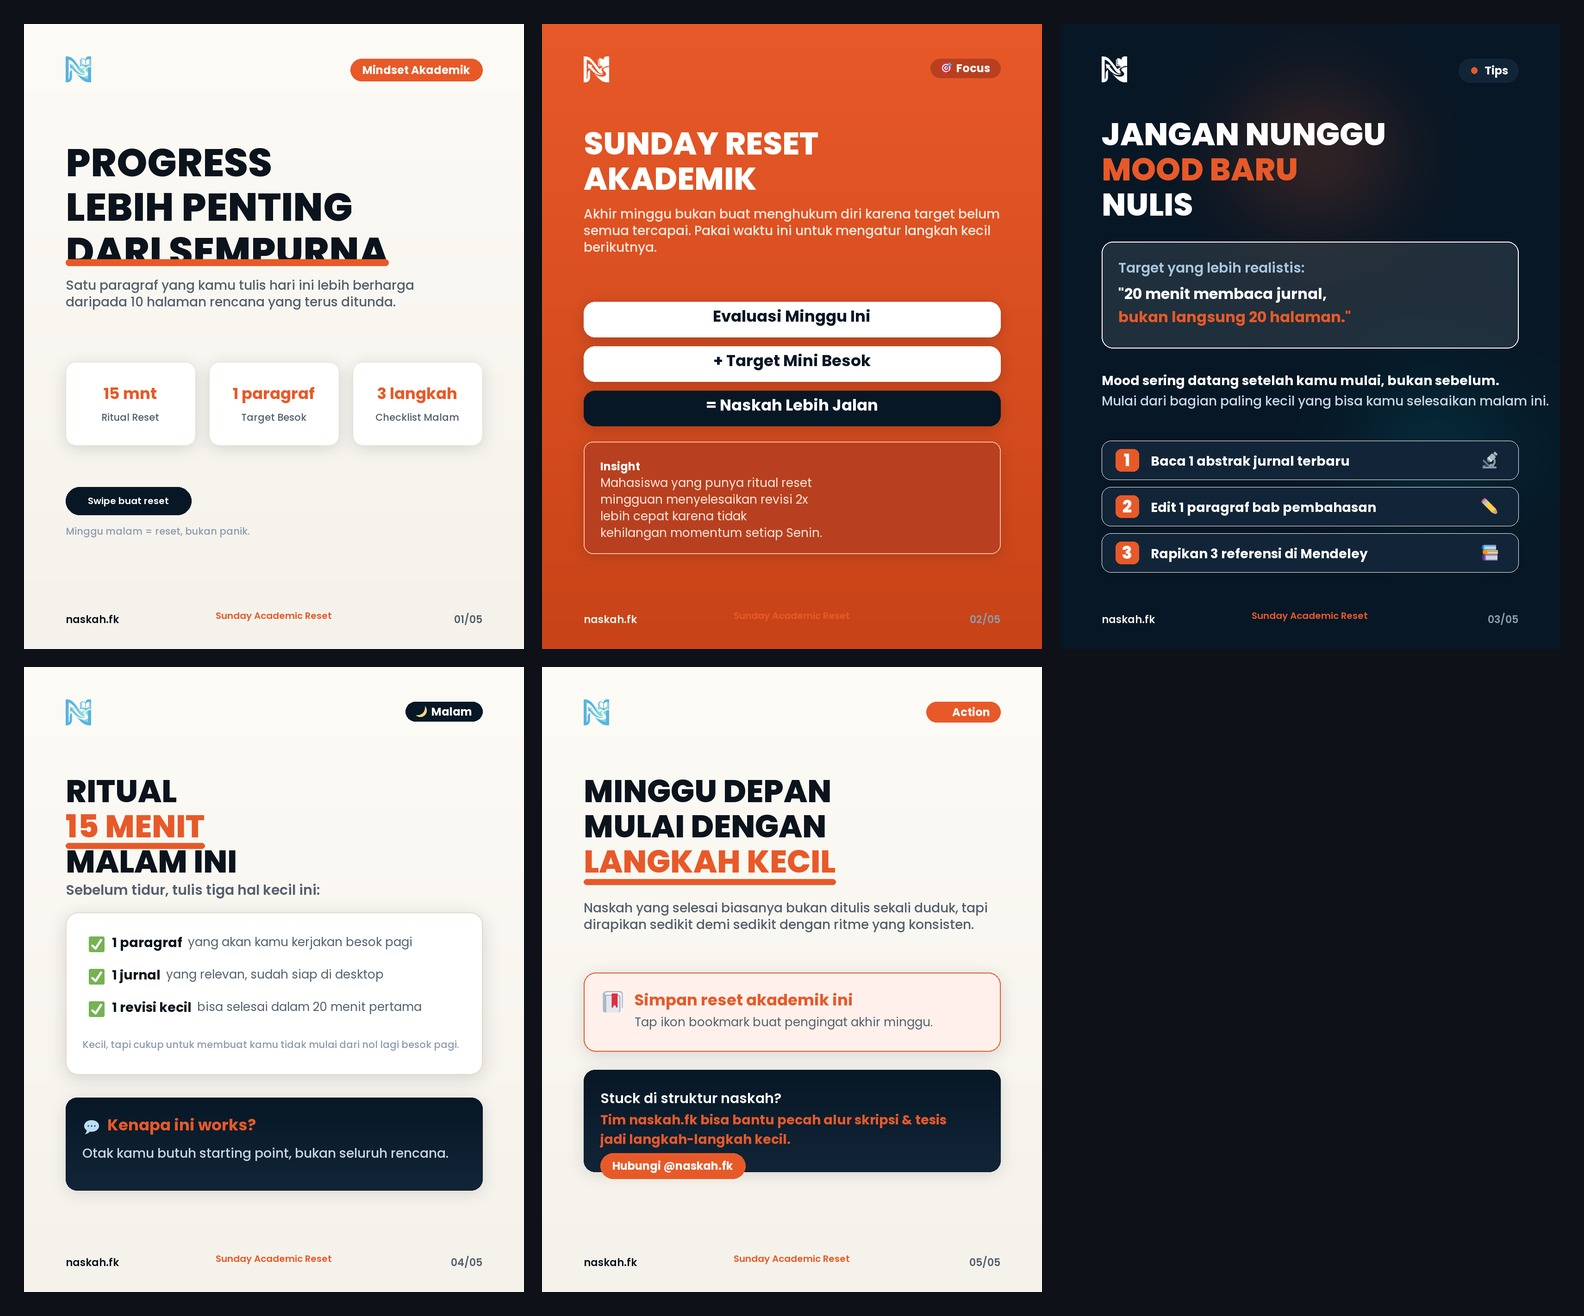
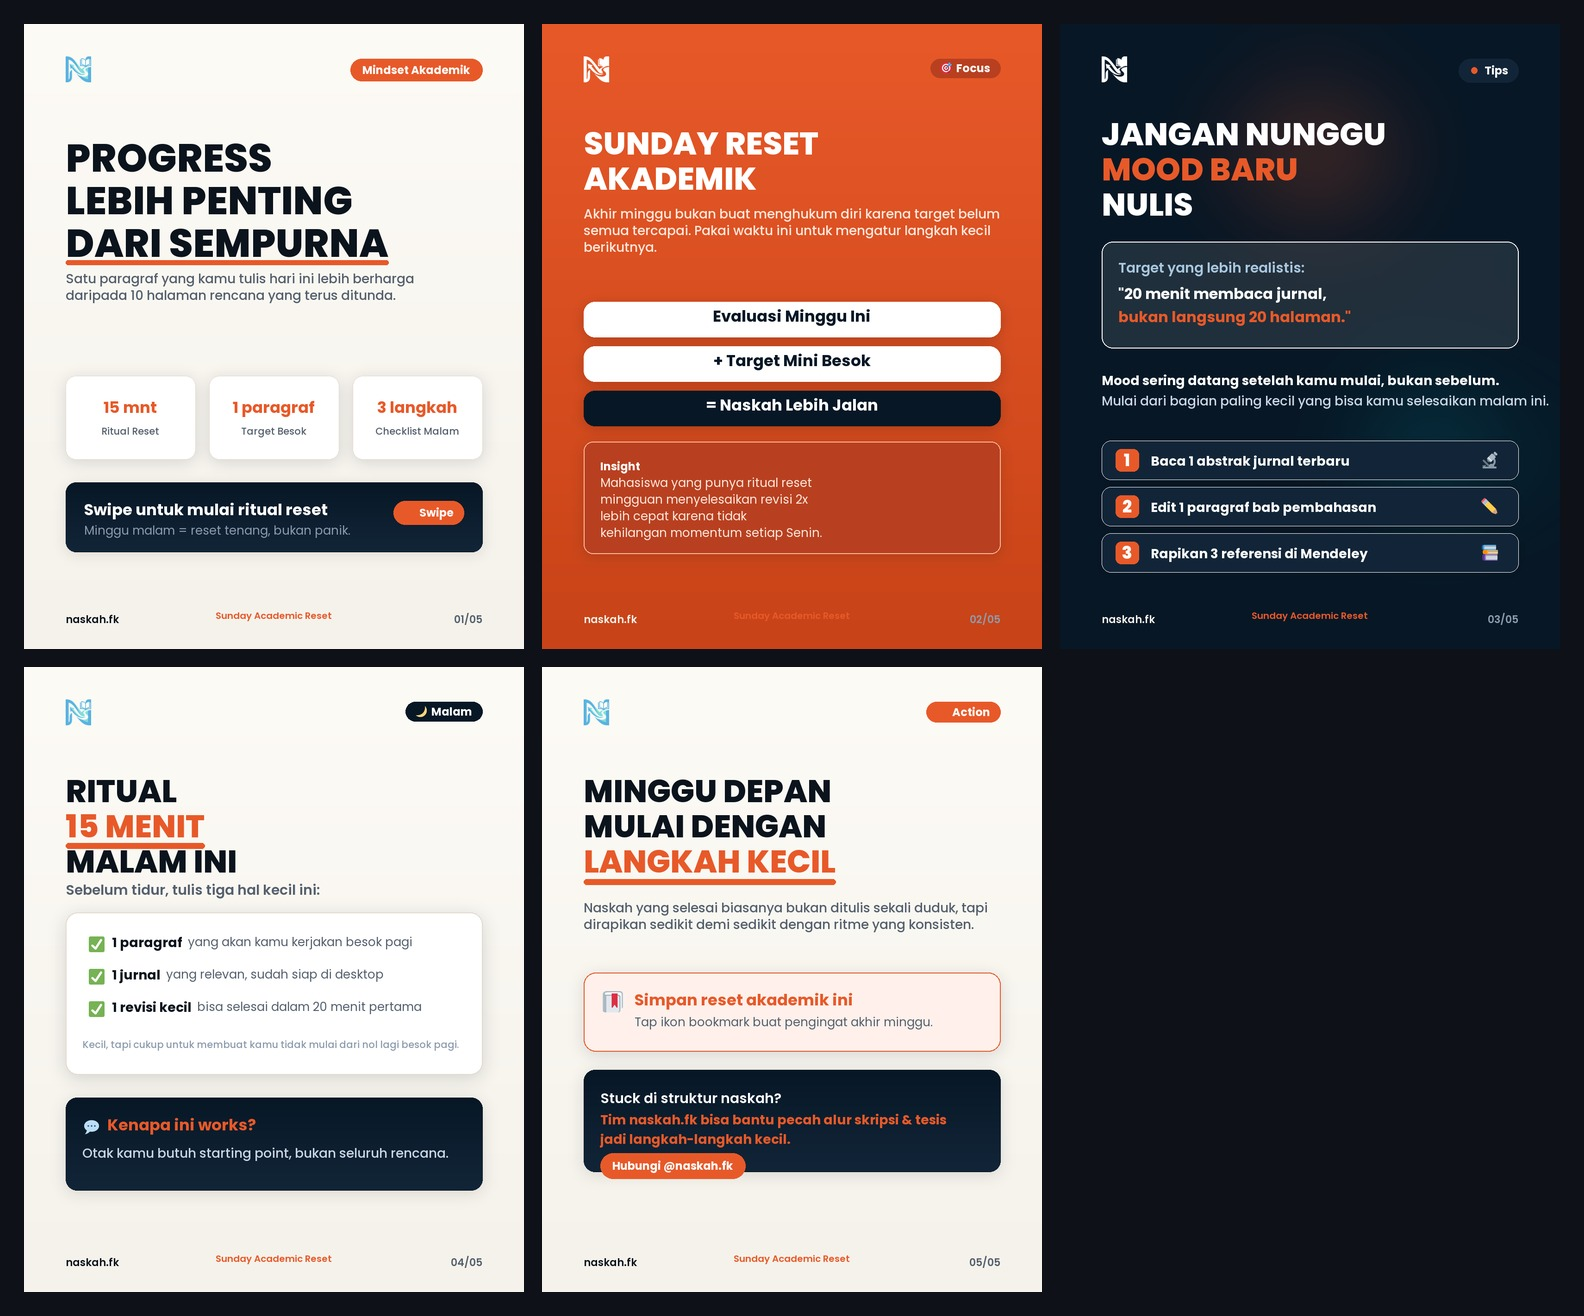
fix(design): Slide 1 highlight bar placed below text baseline (no character cutting) + full-bleed balanced CTA bottom card

Changed region(s): [[0.0309, 0.2804, 0.3093, 0.4362], [0.0309, 0.0935, 0.2475, 0.2492]]

diff --git a/04_GENERATORS/render_post07_rich.py b/04_GENERATORS/render_post07_rich.py
@@ -202,18 +202,26 @@ def slide_cover():
     # Badge pill top-right — aligned right with 90px margin, vertical center with logo
     pill(d, (W - 90, 75), "Mindset Akademik", ORANGE, WHITE, align_right=True)
 
-    # Hero — bigger, full-width
-    y = 240
-    for ln in ["PROGRESS", "LEBIH PENTING", "DARI SEMPURNA"]:
+    # Hero lines
+    lines = ["PROGRESS", "LEBIH PENTING", "DARI SEMPURNA"]
+    y = 230
+    line_h = 92
+    for i, ln in enumerate(lines):
+        if i == 2:
+            # Measure bounding box of "DARI SEMPURNA"
+            bb = d.textbbox((90, y), ln, font=F["hero"])
+            text_bottom = bb[3]
+            # Place highlight bar cleanly BELOW the letters (no overlapping/cutting)
+            bar_y = text_bottom + 6
+            bar_h = 10
+            highlight_bar(d, 90, bar_y, bb[2] - 90, bar_h, ORANGE)
         d.text((90, y), ln, font=F["hero"], fill=INK)
-        y += 96
-    # highlight under DARI SEMPURNA
-    bb = d.textbbox((90, y - 96), "DARI SEMPURNA", font=F["hero"])
-    highlight_bar(d, 90, y - 20, bb[2] - 90, 14, ORANGE)
+        y += line_h
 
-    # Body (bigger)
+    # Body (bigger, balanced spacing)
+    body_y = y + 24
     body = "Satu paragraf yang kamu tulis hari ini lebih berharga daripada 10 halaman rencana yang terus ditunda."
-    text_box(d, 90, y + 16, body, F["body_m"], MUTED, width=820)
+    text_box(d, 90, body_y, body, F["body_m"], MUTED, width=860)
 
     # 3 stat cards — full-width row, vertically centered content
     cards = [
@@ -221,7 +229,7 @@ def slide_cover():
         ("1 paragraf", "Target Besok"),
         ("3 langkah", "Checklist Malam"),
     ]
-    cy = 730
+    cy = 760
     cw = 280
     gap = 30
     for i, (val, label) in enumerate(cards):
@@ -236,12 +244,16 @@ def slide_cover():
         bbl = d.textbbox((0, 0), label, font=F["caption"])
         d.text((x + (cw - bbl[2] + bbl[0]) // 2, cy + 104), label, font=F["caption"], fill=MUTED)
 
-    # CTA pill — centered, hug content
+    # CTA pill card container at bottom to eliminate dead space
+    cta_box = (90, 990, 990, 1140)
+    im = soft_shadow(im, cta_box, radius=22, alpha=28, blur=14, offset=(0, 5))
     d = ImageDraw.Draw(im)
-    pill(d, (90, 1000), "Swipe buat reset", NAVY, WHITE, bold=False, pad_x=48, pad_y=20)
-
-    # small tag line under CTA
-    d.text((90, 1080), "Minggu malam = reset, bukan panik.", font=F["caption"], fill=MUTED_LIGHT)
+    rounded_rect_grad(im, cta_box, 22, NAVY, NAVY_LIGHT)
+    d = ImageDraw.Draw(im)
+    d.text((130, 1025), "Swipe untuk mulai ritual reset", font=F["card_t"], fill=WHITE)
+    d.text((130, 1075), "Minggu malam = reset tenang, bukan panik.", font=F["body_r"], fill=MUTED_LIGHT)
+    # Right arrow pill inside CTA card
+    pill(d, (990 - 40, 1030), "Swipe", ORANGE, WHITE, bold=True, pad_x=22, pad_y=12, im=im, emoji_prefix="👉", align_right=True)
 
     footer(im, "01/05")
     return im
